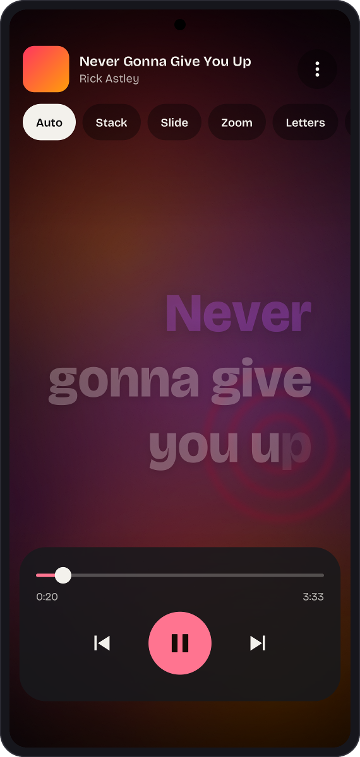
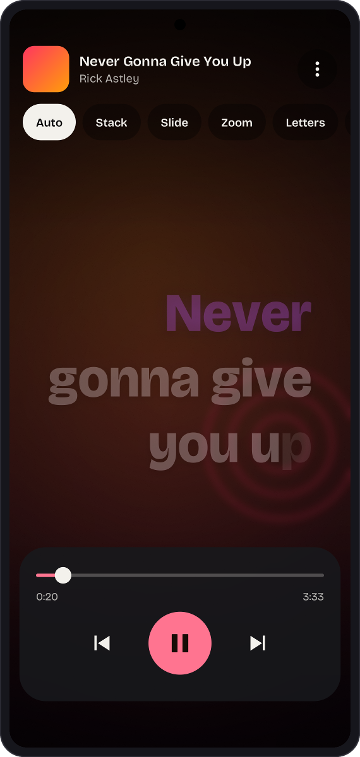
Apple-clean glass: a soft wash in the artwork's own colours
The undulating slab, its refraction, the dispersion fringes, the specular
glints and the saturation push are all gone. What is left is the way
Apple draws a background: the cover's colours in a slow drift as soft as
a blur, no visible edge anywhere, a fine ripple in its own colour from
each sung word, a soft band of light on each new line, then the filmic
tail. Greys stay grey with no special case. The README mockups and the
pre-Android-13 gradient follow the same look.

diff --git a/app/src/main/java/com/lyricstage/background/LiquidGlassShader.kt b/app/src/main/java/com/lyricstage/background/LiquidGlassShader.kt
@@ -1,32 +1,30 @@
 package com.lyricstage.background
 
 /**
- * AGSL "liquid glass": the background is the artwork's top colour as it comes, with pools
- * of the next top colours drifting behind a slowly undulating glass slab that refracts them.
- * Sung words send ripples through the glass and each new line sweeps a soft band of light
- * across it. Ripples carry their own contrast-pushed colour, so the same ring reads on a
- * black cover exactly as it does on a purple one. Tone mapped so the brightest spots
- * stay well below the lyrics.
+ * The liquid background, redrawn the way Apple draws a background: a soft colour wash in
+ * the artwork's own colours - as smooth as a blur, with no visible edge anywhere - slowly
+ * drifting, with a fine ripple in its own colour from each sung word and a soft band of
+ * light across the glass when a new line begins.
+ *
+ * What is gone is everything that read as "tricks": no undulating slab, no refraction, no
+ * dispersion fringes at the edges of the light, no specular glints, no saturation push.
+ * The colour is exactly what the cover has - nothing is pushed off its luminance - so a
+ * grey cover stays grey with no special case, and the wash can never blow a light cover
+ * out to white or crush a dark one to black.
  *
  * Coordinates: fragCoord has a top-left origin; p is centred, y down, aspect corrected.
  *
- * Every stage colour stays bounded: pools and ripple rings mix toward the accent colours
- * instead of adding light onto the base, so a light cover can never wash out to white and
- * the brightest thing on screen stays the type. Nothing reaches the tone map below zero
- * either - pow() of a negative is NaN, and a NaN pixel is garbage on some GPUs - so the
- * colour is clamped before the filmic tail runs.
- *
- * A black-and-white cover stays black-and-white: when every palette colour is a grey
- * (as PaletteBuilder keeps a grey artwork), the glass works in luminance alone - no
- * saturation push, no coloured dispersion, no tinted ripple rings. Light still bends;
- * no colour appears that the cover never had.
+ * Every stage colour stays bounded: the wash mixes toward the ripple colours instead of
+ * adding light onto the base, and nothing reaches the filmic tail below zero - pow() of a
+ * negative is NaN, and a NaN pixel is garbage on some GPUs. The tail itself stays: it is
+ * the tone map the light lyric shade is measured against (Colour.rolled), and it keeps
+ * the brightest spots well below the type.
  */
 internal const val LIQUID_GLASS_AGSL = """
 uniform float2 uRes;
 uniform float uTime;
 uniform half3 uC0;
 uniform half3 uC1;
-uniform half3 uC2;
 uniform half3 uBase;
 uniform float4 uRip[8];
 uniform float uLineT;
@@ -58,46 +56,30 @@ float fbm(float2 p) {
     return v / 0.88;
 }
 
-// Domain-warped noise picks where each accent shows. Pools are bounded tints toward the
-// ripple colours, never added light: on a dark cover the ripples are lighter than the
-// base so the pools glow, on a light cover they are darker so the pools shade - yellow
-// gets olive waves, light grey gets grey ones - and no cover can blow out to white.
-// uBase is the artwork's top colour, used exactly as it comes; the filmic tail at the
-// end of main() darkens it into the mid tones the light lyric shade is measured against.
-// mono is 1 when every palette colour is a grey: the saturation push is off, so greys
-// stay exactly on their own luminance.
-half3 lightField(float2 p, float t, half mono) {
-    float2 s = p * 0.62;
-    float2 q = float2(fbm(s + float2(0.0, t * 0.035)), fbm(s + float2(5.2, -t * 0.03)));
-    float2 r = float2(fbm(s + 1.6 * q + float2(1.7, 9.2) + t * 0.022),
-                      fbm(s + 1.6 * q + float2(8.3, 2.8) - t * 0.026));
-    float f = fbm(s * 0.9 + 1.4 * r);
-    float w0 = smoothstep(0.42, 0.82, f);
-    float w1 = smoothstep(0.5, 0.88, r.x) * (1.0 - w0 * 0.6);
-    float w2 = smoothstep(0.55, 0.92, q.y) * (1.0 - max(w0, w1) * 0.6);
-    // uPools scales how far each mix reaches: 0 nearly flat base, 1 standard, 2 vivid
-    half pools = half(min(uPools, 2.0));
-    half3 col = uBase;
-    col = mix(col, uC0, half(min(w0 * 0.85 * pools, 1.0)));
-    col = mix(col, uC1, half(min(w1 * 0.70 * pools, 1.0)));
-    col = mix(col, uC2, half(min(w2 * 0.55 * pools, 1.0)));
-    half lum = dot(col, half3(0.299, 0.587, 0.114));
-    half sat = mix(half(1.45), half(1.0), mono);
-    return max(mix(half3(lum), col, sat), half3(0.0));
-}
-
 half4 main(float2 fragCoord) {
     float2 uv = fragCoord / uRes;
     float aspect = uRes.x / uRes.y;
     float2 p = float2((uv.x - 0.5) * aspect, uv.y - 0.5);
     float t = uTime;
 
-    // the slab is never flat: slow undulation
-    float2 slope = float2(
-        sin(p.y * 2.3 + t * 0.21) + 0.6 * sin(p.x * 1.7 - p.y * 1.3 + t * 0.17),
-        cos(p.x * 2.1 - t * 0.19) + 0.6 * cos(p.y * 1.9 + p.x * 0.8 - t * 0.23)) * 0.012;
+    // the colour wash: the artwork's own colours in a drift as soft as a blur. The domain
+    // is wide, so each field spans most of the screen and no edge of it is visible; the
+    // two fields are the ripple colours, the same colours the rings carry, so the wash and
+    // the waves agree. uPools scales how far each mix reaches: 0 nearly flat base, 1
+    // standard, 2 vivid. A grey cover stays grey: mixing grey toward grey changes nothing.
+    float2 s = p * 0.34;
+    float2 q = float2(fbm(s + float2(0.0, t * 0.016)), fbm(s + float2(4.7, -t * 0.013)));
+    float2 r = float2(fbm(s + 1.2 * q + float2(1.7, 9.2) + t * 0.010),
+                      fbm(s + 1.2 * q + float2(8.3, 2.8) - t * 0.012));
+    float f = fbm(s * 0.8 + 1.2 * r);
+    half pools = half(min(uPools, 2.0));
+    half3 col = uBase;
+    col = mix(col, uC0, half(min(smoothstep(0.30, 0.85, f) * 0.45 * pools, 0.55)));
+    col = mix(col, uC1, half(min(smoothstep(0.52, 0.94, q.y) * 0.28 * pools, 0.35)));
 
-    // ripples: a damped ring travelling outwards from each sung word
+    // ripples: a damped ring travelling outwards from each sung word, in its own colour -
+    // fine and light on dark glass, fine and darker on light glass, so the same ring reads
+    // on a black cover exactly as it does on a purple one
     float ring = 0.0;
     float glow = 0.0;
     for (int i = 0; i < 8; i++) {
@@ -109,61 +91,27 @@ half4 main(float2 fragCoord) {
             float dist = length(d);
             float x = dist - age * 0.32;
             float env = exp(-x * x * 90.0) * exp(-age * 1.25) * rp.w;
-            slope += (d / max(dist, 0.001)) * sin(x * 55.0) * env * 0.035 * uRipple;
             ring += env * uRipple;
             // a wide, soft version of the same ring, for dark glass
             glow += exp(-x * x * 14.0) * exp(-age * 1.4) * rp.w * uRipple;
         }
     }
-
-    // a band of light across the glass on each new line
-    float lineAge = t - uLineT;
-    float sweep = 0.0;
-    if (lineAge > 0.0 && lineAge < 2.2) {
-        float s = (p.x * 0.7 - p.y * 0.45) - (lineAge * 1.5 - 1.2);
-        sweep = exp(-s * s * 16.0) * (1.0 - lineAge / 2.2);
-        slope += float2(0.7, -0.45) * sweep * 0.02;
-    }
-
-    // a black-and-white cover stays black-and-white: mono is 1 when every palette colour
-    // is a grey (PaletteBuilder keeps a grey artwork grey; the spread over all twelve
-    // channel differences also swallows the ±1/255 chroma noise a JPEG greyscale carries)
-    float colourFul = 0.0;
-    colourFul += abs(uBase.r - uBase.g) + abs(uBase.g - uBase.b) + abs(uBase.b - uBase.r);
-    colourFul += abs(uC0.r - uC0.g) + abs(uC0.g - uC0.b) + abs(uC0.b - uC0.r);
-    colourFul += abs(uC1.r - uC1.g) + abs(uC1.g - uC1.b) + abs(uC1.b - uC1.r);
-    colourFul += abs(uC2.r - uC2.g) + abs(uC2.g - uC2.b) + abs(uC2.b - uC2.r);
-    half mono = half(1.0 - smoothstep(0.05, 0.12, colourFul));
-
-    // refraction: the light is seen through the bent glass
-    half3 col = lightField(p + slope * 6.0, t, mono);
-    // where the glass is dark (black covers) there is nothing bright to refract, and the
-    // ring's colour fringes and glints read as hard lines on black; soften them there
     half lum0 = dot(col, half3(0.299, 0.587, 0.114));
     half dark = 1.0 - smoothstep(0.04, 0.3, lum0);
-    half edge = mix(1.0, 0.2, dark);
-    // the dispersion the bent glass adds, folded onto its own luminance for a grey
-    // palette: the light still fringes, but only in brightness
-    half3 dispersion = half3(slope.x, 0.3 * (slope.y - slope.x), -slope.y) * 1.6 * edge;
-    col += mix(dispersion, half3(dot(dispersion, half3(0.299, 0.587, 0.114))), mono);
-
-    float3 n = normalize(float3(-slope * 14.0, 1.0));
-    float3 L = normalize(float3(-0.45, -0.55, 0.7));
-    float spec = pow(max(dot(reflect(-L, n), float3(0.0, 0.0, 1.0)), 0.0), 40.0);
-    col += half(spec * 0.2) * edge + half(sweep * 0.1);
-
-    // ripples carry their own colour, already pushed apart from the background in
-    // lightness: the ring mixes toward it, bounded like the pools - a fine light ring on
-    // dark glass, a fine dark ring on light glass, plain luminance when the palette is grey
-    half3 rippleTint = mix(uC0, half3(dot(uC0, half3(0.299, 0.587, 0.114))), mono);
     half rw = half(min(ring * 0.55 * (1.0 - dark) + min(glow, 1.5) * 0.30 * dark, 1.0));
-    col = mix(col, rippleTint, rw);
+    col = mix(col, uC0, rw);
 
-    // nothing negative survives to the tone map: pow() of a negative is NaN, and a NaN
-    // pixel is garbage on some GPUs
+    // a soft band of light across the glass on each new line
+    float lineAge = t - uLineT;
+    if (lineAge > 0.0 && lineAge < 2.2) {
+        float sw = (p.x * 0.7 - p.y * 0.45) - (lineAge * 1.5 - 1.2);
+        col += half(exp(-sw * sw * 16.0) * (1.0 - lineAge / 2.2) * 0.10);
+    }
+
+    // nothing negative survives to the tone map
     col = max(col, half3(0.0));
 
-    // vignette, then a filmic roll-off that keeps highlights under the white type
+    // vignette, then the filmic roll-off that keeps highlights under the white type
     col *= half(1.0 - 0.6 * smoothstep(0.3, 1.2, length(p * float2(0.85, 1.1))));
     col = col / (1.0 + col * 0.7);
     col = pow(col, half3(1.18)) * 0.95;

diff --git a/tools/screenshots/src/Render.kt b/tools/screenshots/src/Render.kt
@@ -205,26 +205,21 @@ fun midBuild(swatches: List<Swatch>): StagePalette {
     return StagePalette(top.rgb, listOf(Colour.fromHsl(r1[0], r1[1], r1[2]), Colour.fromHsl(r2[0], r2[1], r2[2]), glint), text)
 }
 
-/** The shader's filmic tail (Colour.rolled) plus its saturation push, applied to a whole
- *  image, so mockups show the lightness and colour the app draws: colours are pushed off
- *  their luma as lightField does, greys (r == g == b) are untouched by it. */
+/** The shader's filmic tail (Colour.rolled) applied to a whole image, so mockups show the
+ *  lightness the app draws: the brightest background stays well under the white type. */
 fun toneMap(img: BufferedImage): BufferedImage {
     val w = img.width
     val h = img.height
     val px = img.getRGB(0, 0, w, h, null, 0, w)
     for (i in px.indices) {
-        val r = ((px[i] shr 16) and 255) / 255f
-        val g = ((px[i] shr 8) and 255) / 255f
-        val b = (px[i] and 255) / 255f
-        val l = 0.299f * r + 0.587f * g + 0.114f * b
-        fun push(c: Float): Int = ((c + 0.45f * (c - l)).coerceAtLeast(0f) * 255f).toInt().coerceIn(0, 255)
-        px[i] = Colour.rolled((255 shl 24) or (push(r) shl 16) or (push(g) shl 8) or push(b))
+        px[i] = Colour.rolled(px[i])
     }
     img.setRGB(0, 0, w, h, px, 0, w)
     return img
 }
 
-/** Approximation of the AGSL liquid glass: soft pools of accent light, a glass sheen, vignette, grain. */
+/** Approximation of the AGSL liquid glass: a soft colour wash in the artwork's own colours,
+ *  ripple rings in their colour, vignette, grain, then the shader's filmic tail. */
 fun background(w: Int, h: Int, pal: Pal, seed: Int, ripple: Point2D.Float?): BufferedImage {
     val img = BufferedImage(w, h, BufferedImage.TYPE_INT_ARGB)
     val g = img.createGraphics()
@@ -232,33 +227,30 @@ fun background(w: Int, h: Int, pal: Pal, seed: Int, ripple: Point2D.Float?): Buf
     g.color = hex(pal.base)
     g.fillRect(0, 0, w, h)
     val r = Random(seed)
-    val pools = listOf(0, 1, 2, 0, 1)
-    for ((i, ai) in pools.withIndex()) {
-        val cx = w * (0.15f + r.nextFloat() * 0.7f)
-        val cy = h * (0.1f + i * 0.2f + r.nextFloat() * 0.1f)
-        val rad = max(w, h) * (0.35f + r.nextFloat() * 0.2f)
-        val c = pal.accents[ai]
+    // the wash: two wide fields of the ripple colours, as soft as a blur, with no edge
+    // visible anywhere - the same colours the rings carry, so the wash and the waves agree
+    for (c in listOf(pal.accents[0], pal.accents[1])) {
+        val cx = w * (0.3f + r.nextFloat() * 0.4f)
+        val cy = h * (0.15f + r.nextFloat() * 0.7f)
+        val rad = max(w, h) * (0.6f + r.nextFloat() * 0.2f)
         g.paint = RadialGradientPaint(
-            Point2D.Float(cx, cy), rad, floatArrayOf(0f, 0.55f, 1f),
-            arrayOf(hex(c, 0.55f), hex(c, 0.18f), hex(c, 0f)),
+            Point2D.Float(cx, cy), rad, floatArrayOf(0f, 0.6f, 1f),
+            arrayOf(hex(c, 0.30f), hex(c, 0.10f), hex(c, 0f)),
         )
         g.fillRect(0, 0, w, h)
     }
-    // glass sheen: a soft diagonal band of light
-    g.paint = GradientPaint(0f, h * 0.25f, Color(255, 255, 255, 0), w * 0.6f, h * 0.55f, Color(255, 255, 255, 22), true)
-    g.fillRect(0, 0, w, h)
     if (ripple != null) {
         // the ring carries the ripple colour, as the shader mixes toward it: light rings on
         // dark glass, dark rings on light glass
         for (k in 0 until 3) {
             val rr = w * (0.08f + k * 0.07f)
             g.stroke = BasicStroke(w * 0.006f)
-            g.color = hex(pal.accents[0], (44 - k * 12).toFloat().coerceAtLeast(12f))
+            g.color = hex(pal.accents[0], (40 - k * 11).toFloat().coerceAtLeast(10f))
             g.draw(Ellipse2D.Float(ripple.x - rr, ripple.y - rr, rr * 2, rr * 2))
         }
     }
     g.dispose()
-    val soft = blur(img, (w * 0.01f).toInt())
+    val soft = blur(img, (w * 0.012f).toInt())
     val g2 = soft.createGraphics()
     g2.hq()
     // vignette as the shader does, then its filmic tail, so the mockup shows the
@@ -269,28 +261,6 @@ fun background(w: Int, h: Int, pal: Pal, seed: Int, ripple: Point2D.Float?): Buf
         MultipleGradientPaint.CycleMethod.NO_CYCLE,
     )
     g2.fillRect(0, 0, w, h)
-    // the dispersion the bent glass adds, as the shader does after the light field:
-    // colour at the edges of the light, folded to plain luminance when every palette
-    // colour is grey - a black-and-white cover stays black-and-white
-    val baseL = (0.299f * Colour.red(pal.base) + 0.587f * Colour.green(pal.base) + 0.114f * Colour.blue(pal.base)) / 255f
-    val edge = 0.2f + 0.8f * ((baseL - 0.04f) / 0.26f).coerceIn(0f, 1f)
-    fun chroma(c: Int) = (maxOf(Colour.red(c), Colour.green(c), Colour.blue(c)) - minOf(Colour.red(c), Colour.green(c), Colour.blue(c))) / 255f
-    val mono = chroma(pal.base) < 0.004f && pal.accents.all { chroma(it) < 0.004f }
-    val amp = (13f * edge).toInt()
-    if (amp > 0) for (k in 0 until 2) {
-        val y0 = h * (0.32f + k * 0.44f)
-        val tint = when {
-            mono && k == 0 -> Color(255, 255, 255, amp)
-            mono -> Color(0, 0, 0, amp)
-            k == 0 -> Color(255, 190, 170, amp)
-            else -> Color(170, 205, 255, amp)
-        }
-        g2.paint = GradientPaint(
-            w * 0.1f, y0 - h * 0.15f, Color(tint.red, tint.green, tint.blue, 0),
-            w * 0.38f, y0 + h * 0.15f, tint, true,
-        )
-        g2.fillRect(0, 0, w, h)
-    }
     g2.dispose()
     toneMap(soft)
     val rnd = Random(seed + 7)

diff --git a/app/src/main/java/com/lyricstage/background/StageBackground.kt b/app/src/main/java/com/lyricstage/background/StageBackground.kt
@@ -145,30 +145,31 @@ private fun LiquidGlass(palette: StagePalette, ripples: RippleEmitter, clock: Ba
 @RequiresApi(Build.VERSION_CODES.TIRAMISU)
 private fun RuntimeShader.setColorUniforms(p: StagePalette) {
     fun set(name: String, c: Int) = setFloatUniform(name, Colour.red(c) / 255f, Colour.green(c) / 255f, Colour.blue(c) / 255f)
+    // the wash and the rings carry the two ripple colours; the third accent (the glint)
+    // belongs to highlighted words only
     set("uC0", p.accents[0])
     set("uC1", p.accents.getOrElse(1) { p.accents[0] })
-    set("uC2", p.accents.getOrElse(2) { p.accents[0] })
     set("uBase", p.base)
 }
 
-/** Below API 33: slowly drifting radial pools of the accent colours. */
+/** Below API 33: slowly drifting pools of the ripple colours, as soft as the wash. */
 @Composable
 private fun GradientFallback(palette: StagePalette, clock: BackgroundClock, animate: Boolean, pools: Float = 1f) {
     val time = remember { mutableFloatStateOf(0f) }
     LaunchedEffect(animate) { animateTime(time, clock, animate) }
     val base = Color(Colour.rolled(palette.base))
-    val accents = palette.accents.map { Color(it) }
+    val accents = palette.accents.take(2).map { Color(it) }
     Canvas(Modifier.fillMaxSize()) {
         val t = time.floatValue
         drawRect(base)
-        val r = size.maxDimension * 0.65f
+        val r = size.maxDimension * 0.75f
         accents.forEachIndexed { i, c ->
-            val phase = t * (0.05f + i * 0.013f) + i * 2.1f
+            val phase = t * (0.04f + i * 0.013f) + i * 2.1f
             val centre = Offset(
-                size.width * (0.5f + 0.35f * cos(phase)),
-                size.height * (0.5f + 0.35f * sin(phase * 1.3f)),
+                size.width * (0.5f + 0.3f * cos(phase)),
+                size.height * (0.5f + 0.3f * sin(phase * 1.3f)),
             )
-            drawCircle(Brush.radialGradient(listOf(c.copy(alpha = (0.42f * pools).coerceIn(0f, 1f)), Color.Transparent), centre, r), r, centre)
+            drawCircle(Brush.radialGradient(listOf(c.copy(alpha = (0.35f * pools).coerceIn(0f, 1f)), Color.Transparent), centre, r), r, centre)
         }
     }
 }
